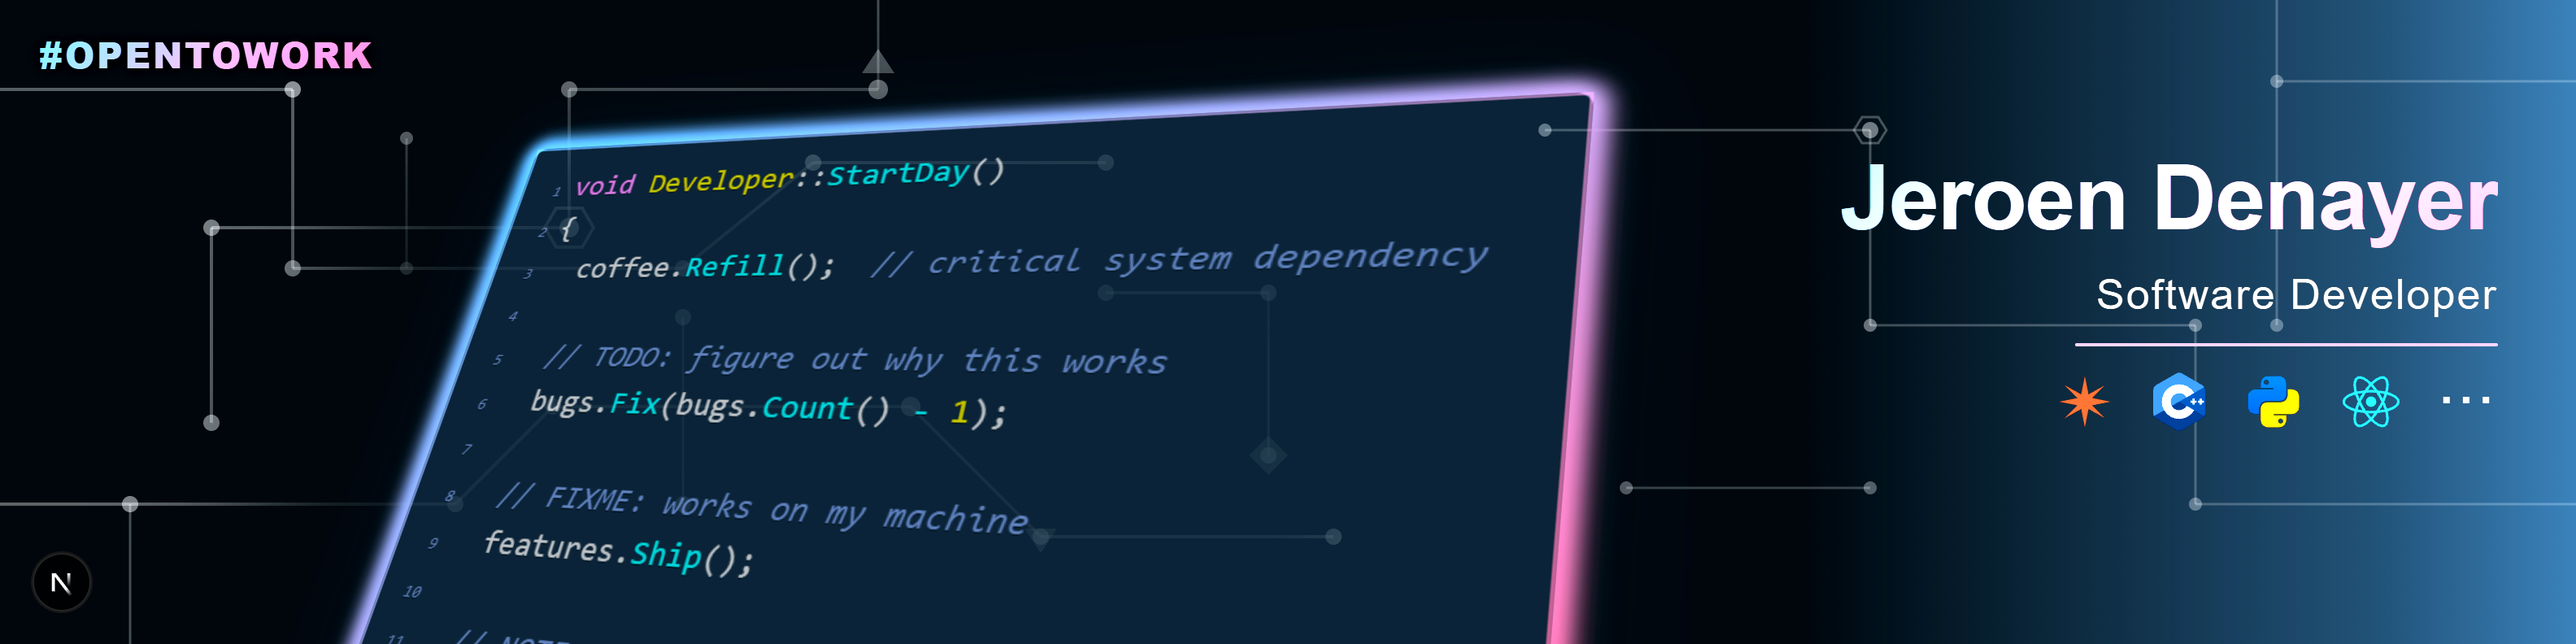
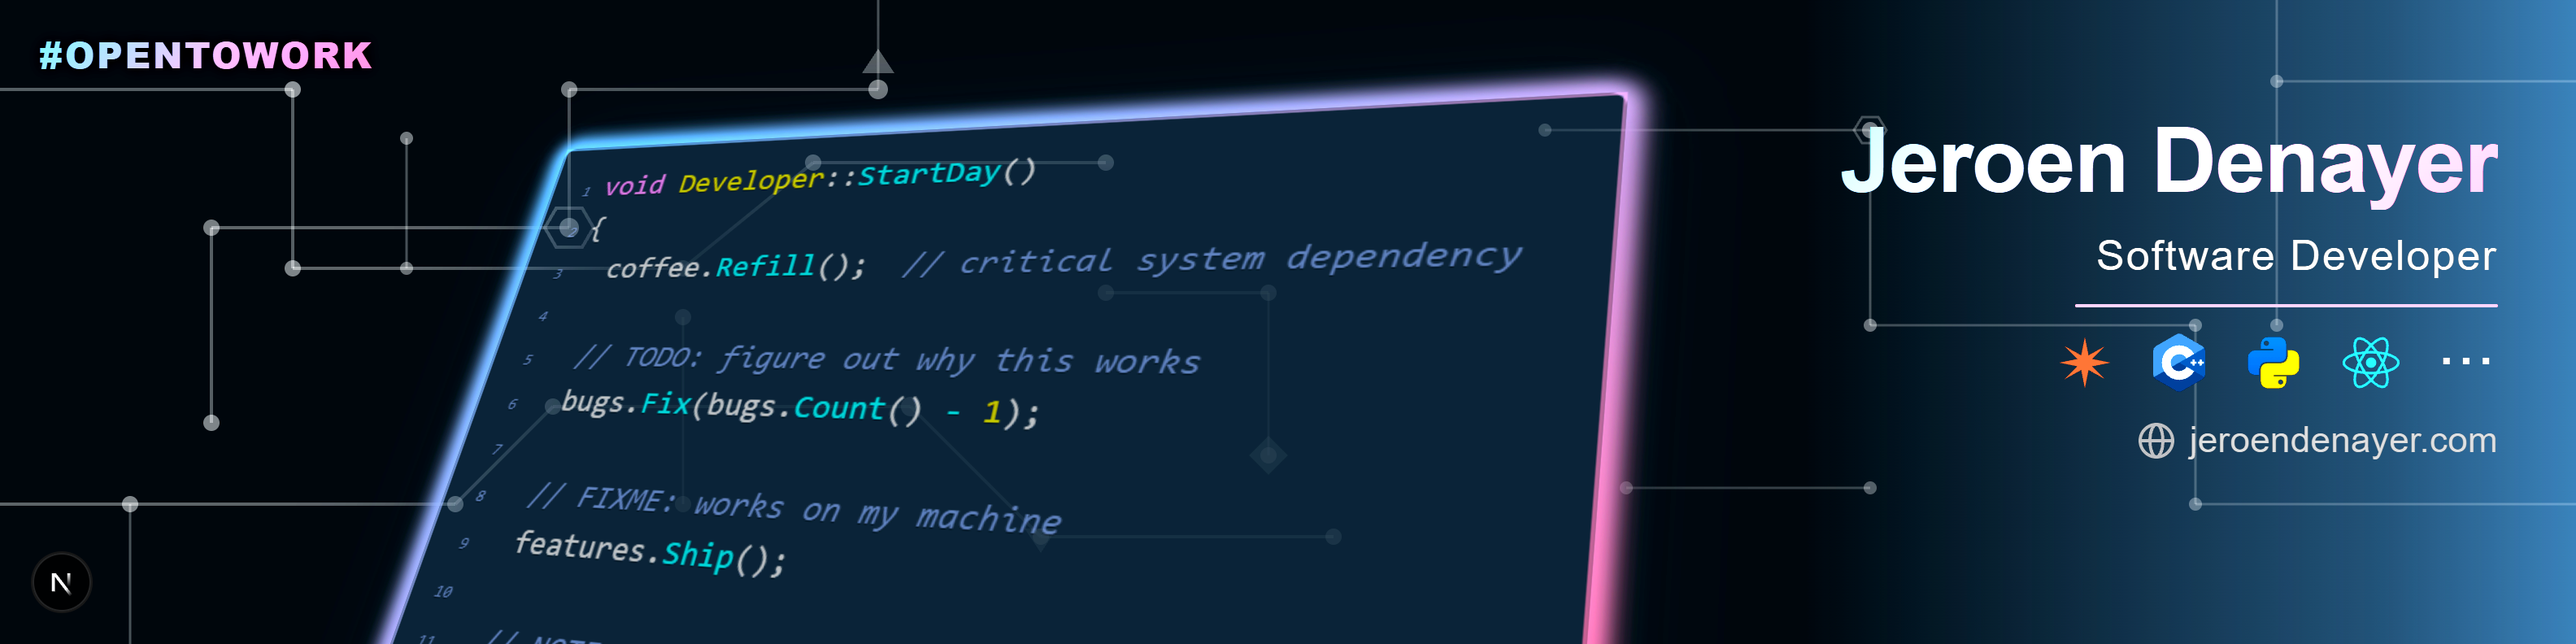
Add website link, adjust code box position, and refine circuit mask
- Add globe icon and jeroendenayer.com below tech icons
- Shift code box 140px right from original position
- Recompute circuit dim mask polygon to match code box projection
- Re-render banner PNG

Changed region(s): [[0.0938, 0.0909, 0.6562, 1.0], [0.7188, 0.1818, 0.9688, 0.4848], [0.7812, 0.5152, 0.9688, 0.7273]]

diff --git a/src/app/(raw)/linkedin-banner/raw/page.tsx b/src/app/(raw)/linkedin-banner/raw/page.tsx
@@ -135,7 +135,7 @@ export default function LinkedInBannerPage() {
             <rect width="1584" height="396" fill="white" />
             <g filter="url(#circuit-mask-blur)">
               <polygon
-                points="240,90 900,30 860,396 120,396"
+                points="361,94 1010,60 967,500 212,500"
                 fill="black"
                 opacity={0.85}
               />
@@ -281,7 +281,7 @@ export default function LinkedInBannerPage() {
           display: 'flex',
           alignItems: 'flex-start',
           justifyContent: 'center',
-          pl: 'calc(64px + 120px)',
+          pl: 'calc(64px + 140px)',
           pt: 4,
           perspective: '1200px',
         }}
@@ -447,6 +447,42 @@ export default function LinkedInBannerPage() {
             }}
           >
             ···
+          </Box>
+        </Box>
+
+        {/* Website link */}
+        <Box
+          sx={{
+            display: 'flex',
+            alignItems: 'center',
+            gap: 1,
+            mt: 0.5,
+          }}
+        >
+          <Box
+            component="svg"
+            viewBox="0 0 24 24"
+            fill="none"
+            stroke={theme.palette.text.secondary}
+            strokeWidth={2}
+            strokeLinecap="round"
+            strokeLinejoin="round"
+            sx={{ width: 24, height: 24, opacity: 0.7 }}
+          >
+            <circle cx={12} cy={12} r={10} />
+            <ellipse cx={12} cy={12} rx={4} ry={10} />
+            <line x1={2} y1={12} x2={22} y2={12} />
+          </Box>
+          <Box
+            component="span"
+            sx={{
+              fontSize: '22px',
+              fontWeight: 400,
+              color: theme.palette.text.secondary,
+              opacity: 0.8,
+            }}
+          >
+            jeroendenayer.com
           </Box>
         </Box>
       </Box>
